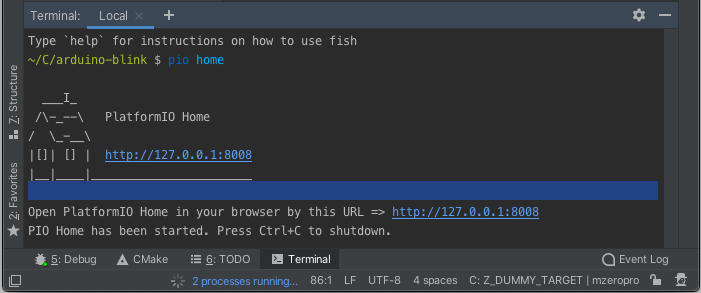
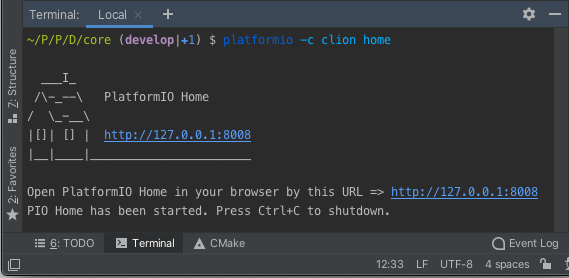
Improvements for CLion docs.

Changed region(s): [[0.0, 0.0, 1.0, 1.0], [0.1494, 0.3165, 0.3884, 0.4317]]

diff --git a/integration/ide/clion.rst b/integration/ide/clion.rst
@@ -24,7 +24,6 @@ Refer to the `CLion Documentation <https://www.jetbrains.com/clion/help/>`_
 page for more detailed information.
 
 .. image:: ../../_static/images/ide/clion/ide-platformio-clion-new.png
-    :target: ../../_images/ide-platformio-clion-new.png
 
 .. contents:: Contents
     :local:
@@ -185,10 +184,26 @@ Build & Upload
 .. image:: ../../_static/images/ide/clion/ide-platformio-clion-build-upload-project.png
 
 
+Configuration options
+'''''''''''''''''''''
+
+- :ref:`projectconf_section_env_build`
+- :ref:`projectconf_section_env_upload`
+
+Device/Serial Monitor
+---------------------
+
+Please open CLion terminal and use :ref:`cmd_device`. You can also configure
+device monitor per project using :ref:`projectconf_section_env_monitor`.
+
+Please not that you need to manually close/stop device monitor before firmware uploading.
+
 Debugging
 ---------
 
-Select ``PlatformIO Debug`` configuration and press the "Debug" button:
+"PlatformIO for CLion" supports :ref:`piodebug` which allows you to debug your
+application with 1-Click without extra steps. Please select ``PlatformIO Debug``
+configuration and press the "Debug" button:
 
 .. image:: ../../_static/images/ide/clion/ide-platformio-clion-debug-project.png
 
@@ -204,8 +219,9 @@ and select registers to monitor. Close configuration window.
 
 
   A temporary solution is to open ``CMakeListsPrivate.txt`` file from a root of
-  PlatformIO project and manually load the SVD file declared in ``CLION_SVD_FILE_PATH``
-  "CMake" variable.
+  PlatformIO project and remember SVD file declared in ``CLION_SVD_FILE_PATH``
+  "CMake" variable. Now press the "+" button in Peripherals Wizard and select SVD file
+  mentioned in ``CLION_SVD_FILE_PATH``.
 
 .. image:: ../../_static/images/ide/clion/ide-platformio-clion-debug-peripherals.png
 
@@ -213,8 +229,16 @@ and select registers to monitor. Close configuration window.
 PlatformIO Home
 ---------------
 
-Please open CLion IDE terminal and type :ref:`cmd_home` command. It will open
-PlatformIO Home in your default browser:
+Currently, :ref:`piohome` is not integrated into "PlatformIO for CLion". See related
+feature request `CLion: CPP-19493 Integrate PlatformIO Home <https://youtrack.jetbrains.com/issue/CPP-19493>`_.
+
+Nevertheless, you can start it manually and open in your browser. Please note that some
+features do not work, such as project opening. Please open CLion terminal
+and run :ref:`cmd_home` command:
+
+.. code-block:: shell
+
+    platformio -c clion home
 
 .. image:: ../../_static/images/ide/clion/ide-platformio-clion-piohome-terminal.png
 
